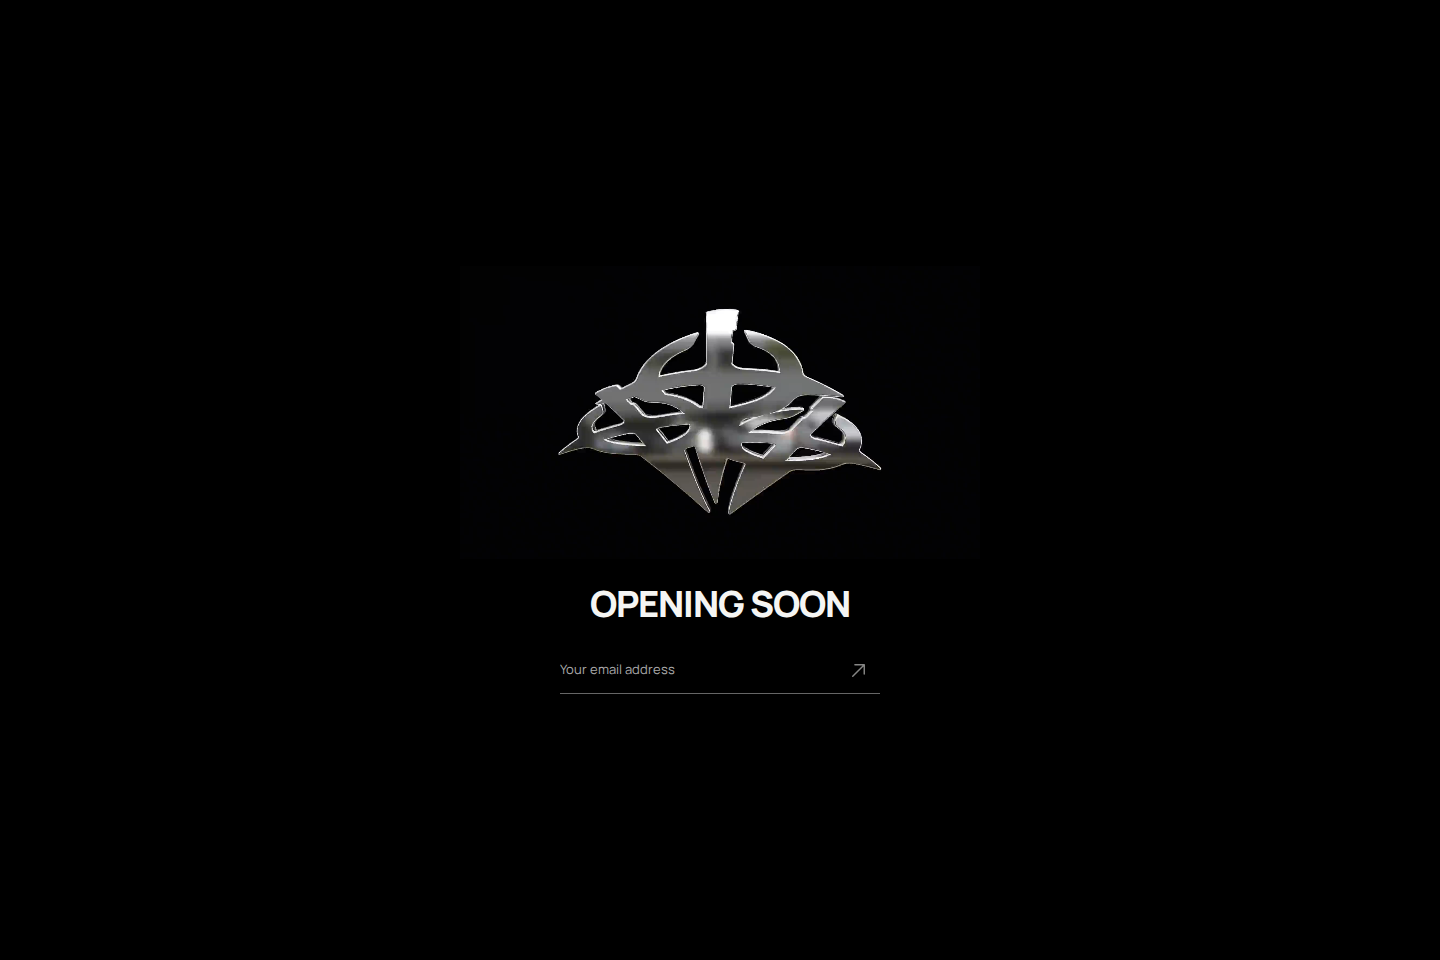
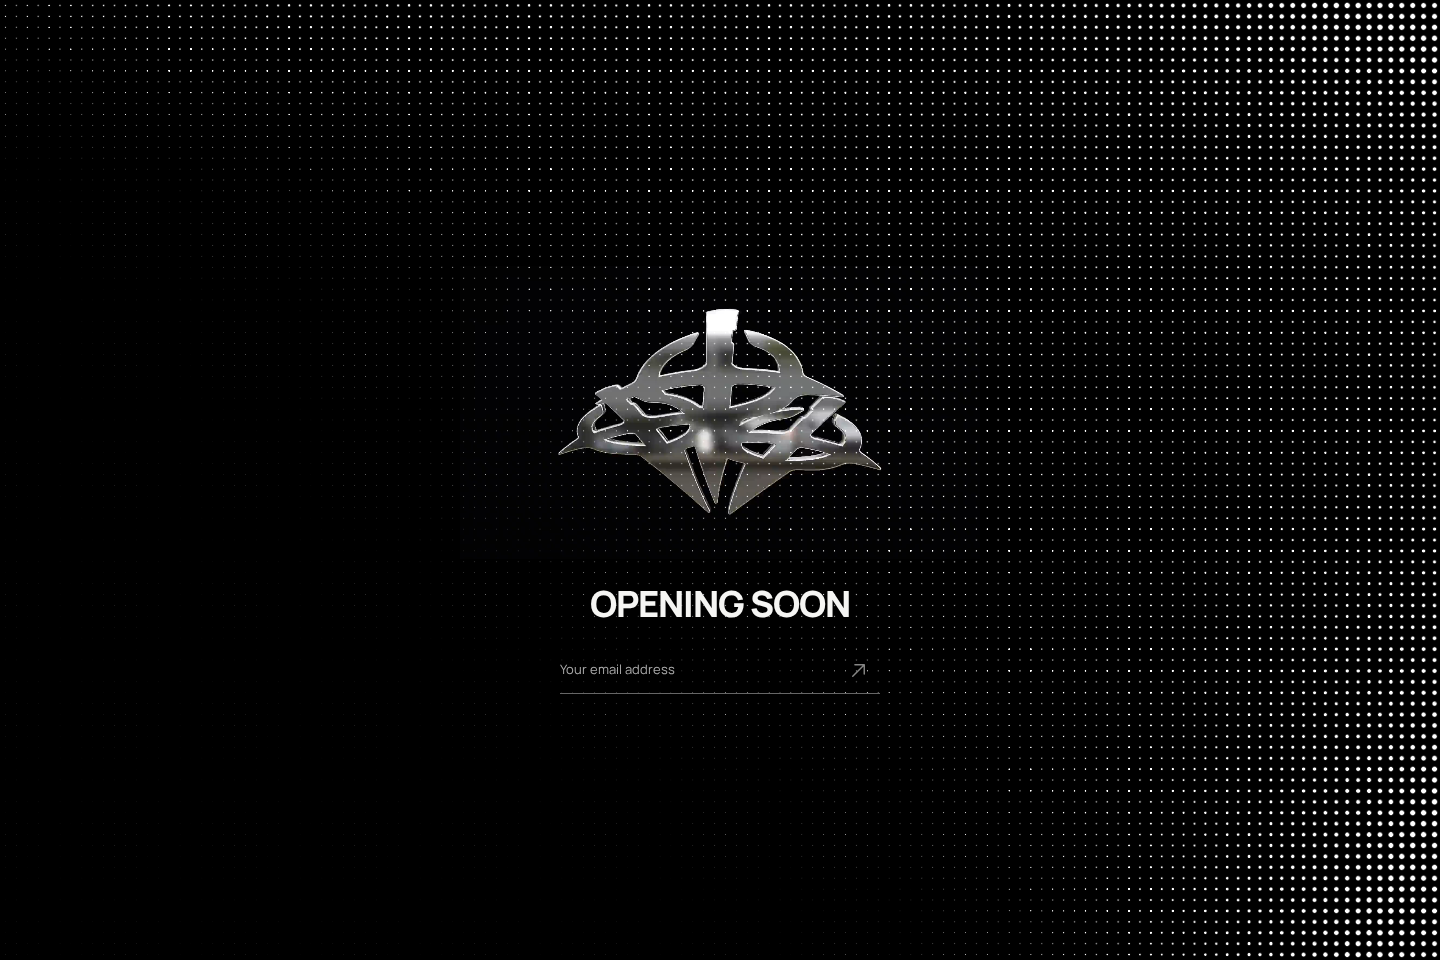
Add bg animation

diff --git a/src/components/ChromaticWaves.tsx b/src/components/ChromaticWaves.tsx
@@ -1,0 +1,262 @@
+"use client";
+
+// Chromatic Waves — Originkit. Adapted from the supplied two-pass OGL effect.
+import { useEffect, useRef, type CSSProperties } from "react";
+import { Renderer, Mesh, Plane, Program, RenderTarget } from "ogl";
+
+const vertex = `#version 300 es
+in vec2 uv;
+in vec2 position;
+out vec2 vUv;
+void main() {
+  vUv = uv;
+  gl_Position = vec4(position, 0., 1.);
+}`;
+
+const perlinFragment = `#version 300 es
+precision mediump float;
+uniform float uFrequency;
+uniform float uTime;
+uniform float uSpeed;
+uniform vec2 uResolution;
+in vec2 vUv;
+out vec4 fragColor;
+vec3 mod289(vec3 x) { return x - floor(x * (1.0 / 289.0)) * 289.0; }
+vec4 mod289(vec4 x) { return x - floor(x * (1.0 / 289.0)) * 289.0; }
+vec4 permute(vec4 x) { return mod289(((x * 34.0) + 1.0) * x); }
+vec4 taylorInvSqrt(vec4 r) { return 1.79284291400159 - 0.85373472095314 * r; }
+float snoise(vec3 v) {
+  const vec2 C = vec2(1.0/6.0, 1.0/3.0);
+  const vec4 D = vec4(0.0, 0.5, 1.0, 2.0);
+  vec3 i = floor(v + dot(v, C.yyy));
+  vec3 x0 = v - i + dot(i, C.xxx);
+  vec3 g = step(x0.yzx, x0.xyz);
+  vec3 l = 1.0 - g;
+  vec3 i1 = min(g.xyz, l.zxy);
+  vec3 i2 = max(g.xyz, l.zxy);
+  vec3 x1 = x0 - i1 + C.xxx;
+  vec3 x2 = x0 - i2 + C.yyy;
+  vec3 x3 = x0 - D.yyy;
+  i = mod289(i);
+  vec4 p = permute(permute(permute(
+    i.z + vec4(0.0, i1.z, i2.z, 1.0))
+    + i.y + vec4(0.0, i1.y, i2.y, 1.0))
+    + i.x + vec4(0.0, i1.x, i2.x, 1.0));
+  float n_ = 0.142857142857;
+  vec3 ns = n_ * D.wyz - D.xzx;
+  vec4 j = p - 49.0 * floor(p * ns.z * ns.z);
+  vec4 x_ = floor(j * ns.z);
+  vec4 y_ = floor(j - 7.0 * x_);
+  vec4 x = x_ * ns.x + ns.yyyy;
+  vec4 y = y_ * ns.x + ns.yyyy;
+  vec4 h = 1.0 - abs(x) - abs(y);
+  vec4 b0 = vec4(x.xy, y.xy);
+  vec4 b1 = vec4(x.zw, y.zw);
+  vec4 s0 = floor(b0)*2.0 + 1.0;
+  vec4 s1 = floor(b1)*2.0 + 1.0;
+  vec4 sh = -step(h, vec4(0.0));
+  vec4 a0 = b0.xzyw + s0.xzyw*sh.xxyy;
+  vec4 a1 = b1.xzyw + s1.xzyw*sh.zzww;
+  vec3 p0 = vec3(a0.xy,h.x);
+  vec3 p1 = vec3(a0.zw,h.y);
+  vec3 p2 = vec3(a1.xy,h.z);
+  vec3 p3 = vec3(a1.zw,h.w);
+  vec4 norm = taylorInvSqrt(vec4(dot(p0,p0), dot(p1,p1), dot(p2,p2), dot(p3,p3)));
+  p0 *= norm.x; p1 *= norm.y; p2 *= norm.z; p3 *= norm.w;
+  vec4 m = max(0.6 - vec4(dot(x0,x0), dot(x1,x1), dot(x2,x2), dot(x3,x3)), 0.0);
+  m = m * m;
+  return 42.0 * dot(m*m, vec4(dot(p0,x0), dot(p1,x1), dot(p2,x2), dot(p3,x3)));
+}
+vec3 hsv2rgb(vec3 c) {
+  vec4 K = vec4(1.0, 2.0/3.0, 1.0/3.0, 3.0);
+  vec3 p = abs(fract(c.xxx + K.xyz) * 6.0 - K.www);
+  return c.z * mix(K.xxx, clamp(p - K.xxx, 0.0, 1.0), c.y);
+}
+void main() {
+  float aspect = uResolution.x / max(uResolution.y, 1.0);
+  vec2 uv = (vUv - 0.5) * vec2(aspect, 1.0) + 0.5;
+  float hue = abs(snoise(vec3(uv * uFrequency, uTime * uSpeed)));
+  fragColor = vec4(hsv2rgb(vec3(hue, 1.0, 1.0)), 1.0);
+}`;
+
+const dotFragment = `#version 300 es
+precision highp float;
+uniform vec2 uResolution;
+uniform sampler2D uTexture;
+uniform int uPaletteCount;
+uniform vec3 uPalette[10];
+uniform float uPaletteAlpha[10];
+uniform float uCellSize;
+uniform float uGamma;
+uniform float uPaletteBias;
+out vec4 fragColor;
+void main() {
+  vec2 pix = gl_FragCoord.xy;
+  float cell = max(uCellSize, 1.0);
+  vec2 cellIdx = floor(pix / cell);
+  vec2 cellCenter = (cellIdx + 0.5) * cell;
+  vec3 col = texture(uTexture, cellCenter / uResolution.xy).rgb;
+  float gray = 0.3 * col.r + 0.59 * col.g + 0.11 * col.b;
+  gray = pow(clamp(gray, 0.0001, 1.0), uGamma);
+  vec2 cellUV = fract(pix / cell) - 0.5;
+  float dist = length(cellUV);
+  float radius = clamp(gray + uPaletteBias, 0.0, 1.0) * 0.5;
+  float aa = fwidth(dist) + 1e-4;
+  float mark = 1.0 - smoothstep(radius - aa, radius + aa, dist);
+  float g2 = clamp(gray + uPaletteBias, 0.0, 1.0);
+  int cnt = max(uPaletteCount, 1);
+  vec3 dotCol;
+  float dotOpacity;
+  if (cnt <= 1) {
+    dotCol = uPalette[0]; dotOpacity = uPaletteAlpha[0];
+  } else {
+    float scaled = g2 * float(cnt - 1);
+    int seg = clamp(int(floor(scaled)), 0, cnt - 2);
+    float f = clamp(scaled - float(seg), 0.0, 1.0);
+    dotCol = mix(uPalette[seg], uPalette[seg+1], f);
+    dotOpacity = mix(uPaletteAlpha[seg], uPaletteAlpha[seg+1], f);
+  }
+  fragColor = vec4(dotCol, mark * dotOpacity);
+}`;
+
+interface ChromaticWavesProps {
+  frequency?: number;
+  speed?: number;
+  cellSize?: number;
+  gamma?: number;
+  paletteBias?: number;
+  style?: CSSProperties;
+}
+
+export default function ChromaticWaves({
+  frequency = 1,
+  speed = 1,
+  cellSize = 10,
+  gamma = 8,
+  paletteBias = -2,
+  style,
+}: ChromaticWavesProps) {
+  const container = useRef<HTMLDivElement>(null);
+  useEffect(() => {
+    const host = container.current;
+    if (!host) return;
+    let renderer: Renderer;
+    try {
+      renderer = new Renderer({
+        webgl: 2,
+        dpr: Math.min(devicePixelRatio || 1, 2),
+        alpha: true,
+        premultipliedAlpha: false,
+      });
+      if (!renderer.isWebgl2) return;
+    } catch {
+      return; // The black CSS surface remains usable without WebGL.
+    }
+    const gl = renderer.gl;
+    const canvas = gl.canvas as HTMLCanvasElement;
+    host.appendChild(canvas);
+    const geometry = new Plane(gl, { width: 2, height: 2 });
+    const target = new RenderTarget(gl, { depth: false });
+    const noise = new Program(gl, {
+      vertex,
+      fragment: perlinFragment,
+      uniforms: {
+        uTime: { value: 0 },
+        uFrequency: { value: 0.3 + ((frequency - 1) / 9) * 5.7 },
+        uSpeed: { value: speed * 0.05 },
+        uResolution: { value: [1, 1] },
+      },
+    });
+    const dots = new Program(gl, {
+      vertex,
+      fragment: dotFragment,
+      transparent: true,
+      uniforms: {
+        uResolution: { value: [1, 1] },
+        uTexture: { value: target.texture },
+        uPaletteCount: { value: 1 },
+        uPalette: { value: Array.from({ length: 10 }, () => [1, 1, 1]) },
+        uPaletteAlpha: { value: Array(10).fill(1) },
+        uCellSize: { value: 6 + ((cellSize - 1) / 99) * 54 },
+        uGamma: { value: 0.5 + ((gamma - 1) / 19) * 7.5 },
+        uPaletteBias: { value: paletteBias * 0.05 },
+      },
+    });
+    const noiseMesh = new Mesh(gl, { geometry, program: noise });
+    const dotMesh = new Mesh(gl, { geometry, program: dots });
+    const preference = matchMedia("(prefers-reduced-motion: reduce)");
+    let frame = 0;
+    let previous = 0;
+    let elapsed = 0;
+    let contextLost = false;
+    const draw = () => {
+      if (contextLost) return;
+      renderer.render({ scene: noiseMesh, target });
+      renderer.render({ scene: dotMesh });
+    };
+    const animate = (time: number) => {
+      frame = 0;
+      if (preference.matches || document.hidden || contextLost) return;
+      if (time - previous >= 1000 / 30) {
+        elapsed += previous ? Math.min(time - previous, 100) / 1000 : 0;
+        previous = time;
+        noise.uniforms.uTime.value = elapsed;
+        draw();
+      }
+      frame = requestAnimationFrame(animate);
+    };
+    const syncPlayback = () => {
+      cancelAnimationFrame(frame);
+      previous = 0;
+      frame = 0;
+      if (!preference.matches && !document.hidden && !contextLost)
+        frame = requestAnimationFrame(animate);
+      else if (!document.hidden) draw();
+    };
+    const resize = () => {
+      if (contextLost) return;
+      renderer.setSize(
+        Math.max(1, host.clientWidth),
+        Math.max(1, host.clientHeight),
+      );
+      target.setSize(canvas.width, canvas.height);
+      noise.uniforms.uResolution.value = [canvas.width, canvas.height];
+      dots.uniforms.uResolution.value = [canvas.width, canvas.height];
+      draw();
+    };
+    const loseContext = () => {
+      contextLost = true;
+      cancelAnimationFrame(frame);
+      canvas.style.visibility = "hidden";
+    };
+    canvas.addEventListener("webglcontextlost", loseContext);
+    const observer = new ResizeObserver(resize);
+    observer.observe(host);
+    preference.addEventListener("change", syncPlayback);
+    document.addEventListener("visibilitychange", syncPlayback);
+    resize();
+    syncPlayback();
+    return () => {
+      cancelAnimationFrame(frame);
+      observer.disconnect();
+      preference.removeEventListener("change", syncPlayback);
+      document.removeEventListener("visibilitychange", syncPlayback);
+      canvas.removeEventListener("webglcontextlost", loseContext);
+      geometry.remove();
+      noise.remove();
+      dots.remove();
+      gl.deleteFramebuffer(target.buffer);
+      gl.deleteTexture(target.texture.texture);
+      gl.getExtension("WEBGL_lose_context")?.loseContext();
+      canvas.remove();
+    };
+  }, [frequency, speed, cellSize, gamma, paletteBias]);
+  return (
+    <div
+      ref={container}
+      className="chromatic-waves"
+      style={style}
+      aria-hidden="true"
+    />
+  );
+}

diff --git a/tests/browser/storefront.spec.ts b/tests/browser/storefront.spec.ts
@@ -227,3 +227,35 @@ test("scheduled drop starts without refresh", async ({ page }) => {
   await page.clock.fastForward(3000);
   await expect(page.locator(".product-card")).toHaveCount(1);
 });
+
+test("waves render, animate, and fall back when WebGL is unavailable", async ({
+  page,
+}) => {
+  const errors: string[] = [];
+  page.on("pageerror", (error) => errors.push(error.message));
+  await page.goto("http://127.0.0.1:4173");
+  const canvas = page.locator(".chromatic-waves canvas");
+  await expect(canvas).toBeVisible();
+  const first = await canvas.screenshot();
+  await page.waitForTimeout(700);
+  const second = await canvas.screenshot();
+  expect(first.equals(second)).toBe(false);
+  expect(errors).toEqual([]);
+  await page.addInitScript(() => {
+    const original = HTMLCanvasElement.prototype.getContext;
+    HTMLCanvasElement.prototype.getContext = function (
+      type: string,
+      ...args: any[]
+    ) {
+      if (type.includes("webgl")) return null;
+      return original.apply(this, [type, ...args] as any);
+    } as typeof original;
+  });
+  await page.reload();
+  await expect(
+    page.getByRole("heading", { name: "OPENING SOON" }),
+  ).toBeVisible();
+  await expect(page.getByRole("textbox")).toBeVisible();
+  await expect(page.locator(".chromatic-waves canvas")).toHaveCount(0);
+  expect(errors).toEqual([]);
+});

diff --git a/src/pages/Opening.tsx b/src/pages/Opening.tsx
@@ -1,5 +1,6 @@
 import { useEffect, useRef } from "react";
 import Signup from "../components/Signup";
+import ChromaticWaves from "../components/ChromaticWaves";
 
 export default function Opening() {
   const video = useRef<HTMLVideoElement>(null);
@@ -17,6 +18,7 @@ export default function Opening() {
   }, []);
   return (
     <div className="opening opening-minimal">
+      <ChromaticWaves />
       <main id="main" className="opening-main">
         <video
           ref={video}

diff --git a/src/styles.css b/src/styles.css
@@ -1000,3 +1000,23 @@ details p {
 .opening-minimal .consent input {
   accent-color: #ddd;
 }
+
+.chromatic-waves {
+  position: absolute;
+  inset: 0;
+  z-index: -1;
+  overflow: hidden;
+  pointer-events: none;
+  background: #000;
+}
+.chromatic-waves canvas {
+  display: block;
+  width: 100%;
+  height: 100%;
+}
+.opening-minimal .opening-video {
+  mix-blend-mode: screen;
+}
+.opening-minimal .opening-main {
+  position: relative;
+}

diff --git a/DESIGN.md b/DESIGN.md
@@ -152,3 +152,7 @@ The header now follows the user's supplied narrow navigation reference: 48px nav
 ## Closed-store simplification
 
 The closed-store page supersedes the atmospheric opening direction: solid black canvas matching the supplied MP4, centered looping `public/videos/outaflow-logo-animation.mp4`, compact OPENING SOON heading and underlined email field. No header, announcement, footer, landscape, tagline or introductory copy. The email label is visually hidden; consent appears once an email is entered, and submission feedback appears only when needed. Reduced-motion pauses the actual video rather than merely disabling CSS animation.
+
+## Chromatic Waves background
+
+The user-supplied Originkit Chromatic Waves shader now fills the closed-store backdrop behind all content. OGL renders simplex-noise and halftone passes using the supplied preset (speed 1, cell size 10, gamma 8, palette bias -2, white palette on black). The supplied video uses screen blending to let the waves continue behind its black ground. Animation is capped at 30fps with DPR capped at 2; hidden tabs pause and reduced-motion renders a static frame. Unsupported/lost WebGL leaves the black background intact. Resize and unmount clean up observers, listeners, frame callbacks and GPU resources.

diff --git a/.impeccable/surfaces/storefront.md b/.impeccable/surfaces/storefront.md
@@ -11,3 +11,5 @@ Illustrative catalog photography is restricted to development preview and labele
 Header refinement: compact 48px row with HOME and SHOP centered and basket on the right; 28px slow announcement strip above. Announcement wording respects active/inactive release state. Empty cart uses a native popover and describes the existing direct checkout behavior.
 
 Closed-store update: only the supplied animated-logo video, OPENING SOON heading and email input on a seamless black canvas. Header, footer and atmospheric landscape removed from this state. Explicit consent is progressively disclosed during email entry.
+
+Background update: user-supplied Originkit Chromatic Waves, full-bleed OGL halftone animation behind the existing minimal content. White dots on black; the video blends over the effect. No new visible copy or controls.
